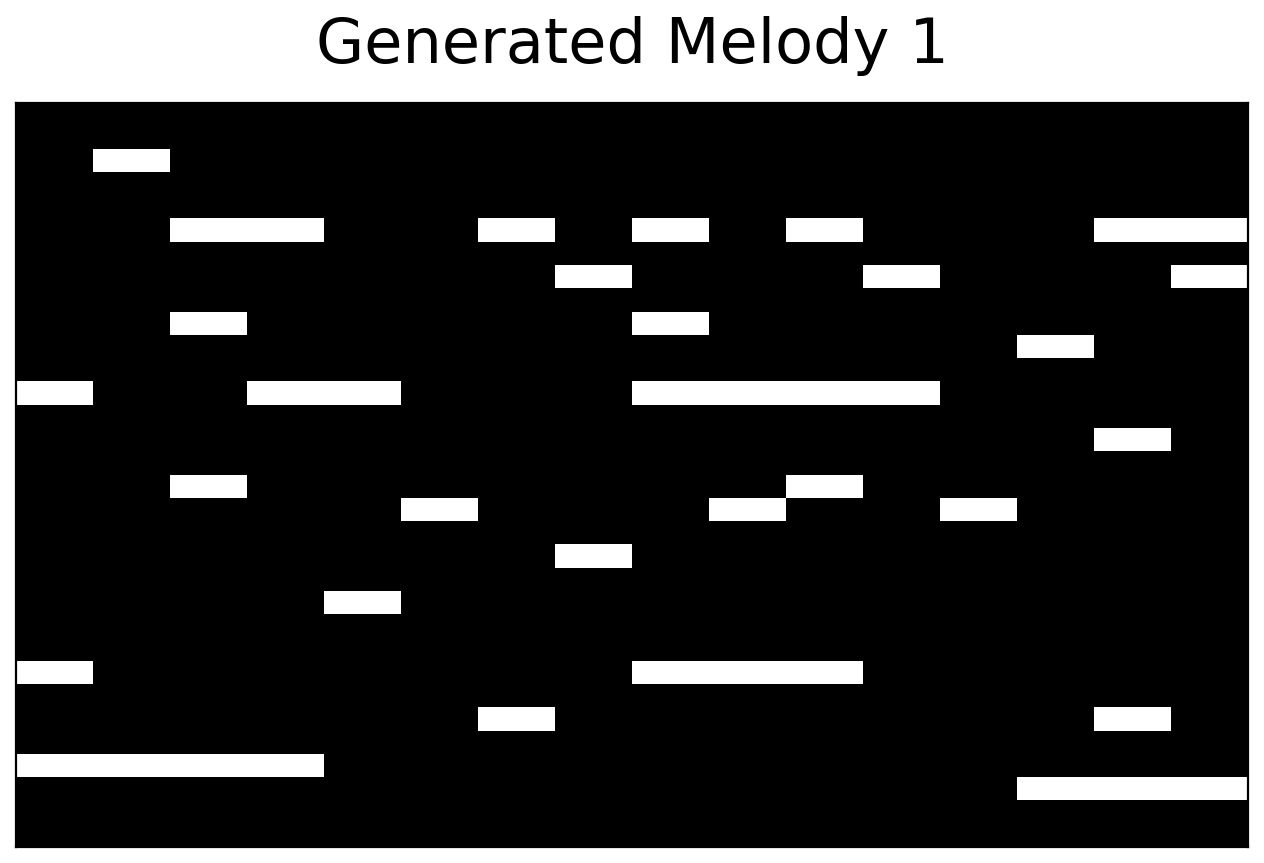
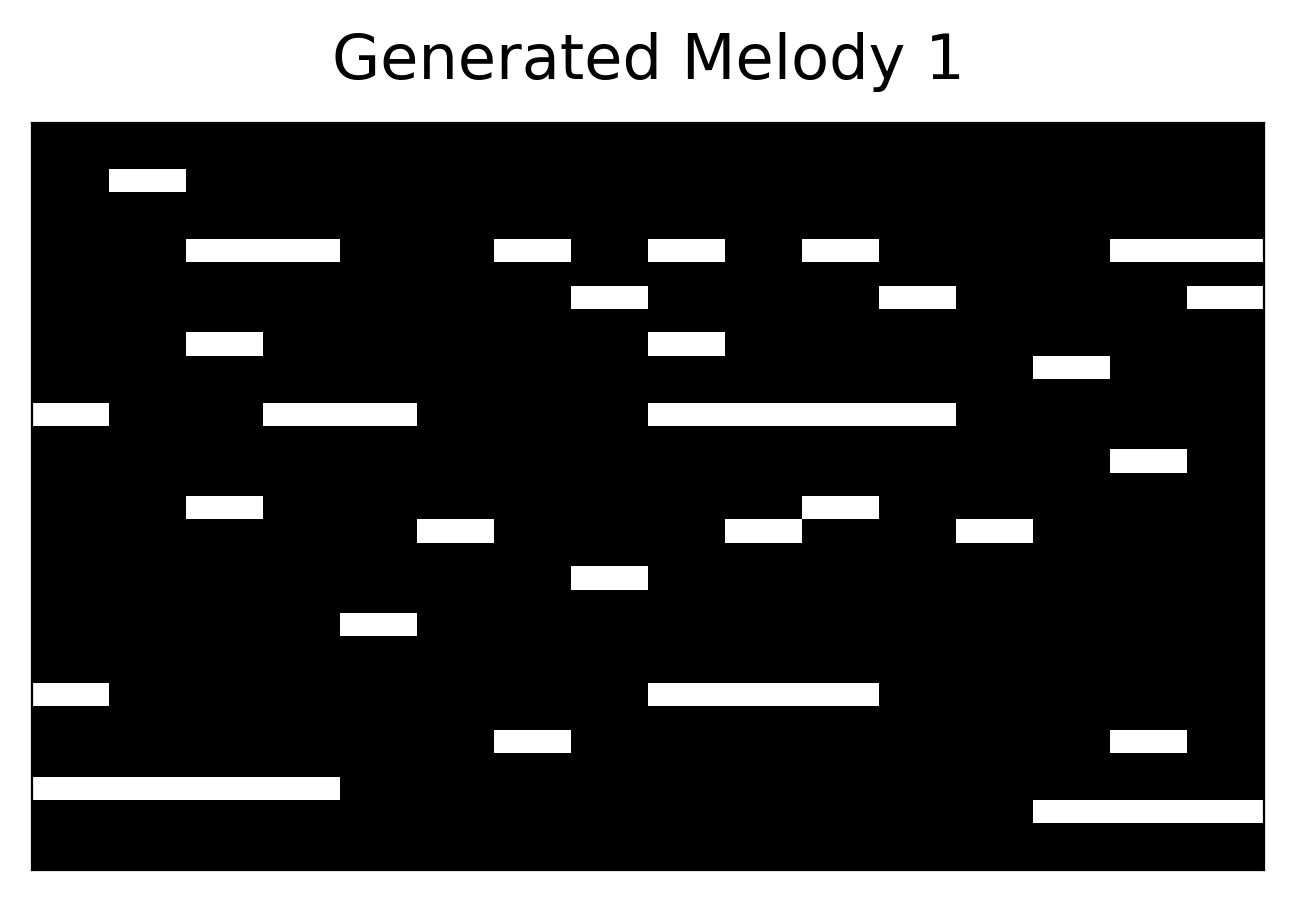
Tweak melody preview layout

diff --git a/scripts/render_samples.py b/scripts/render_samples.py
@@ -54,14 +54,15 @@ def render_png(pm: pretty_midi.PrettyMIDI, path: str, title: str) -> None:
 
     fig, ax = plt.subplots(figsize=(8, 5.5))
     ax.imshow(crop, interpolation="none", cmap="gray", origin="lower", aspect="auto")
-    ax.set_title(title, fontsize=28, pad=18)
+    # suptitle centres on the whole figure width, not just the axes.
+    fig.suptitle(title, fontsize=28)
     for spine in ax.spines.values():
         spine.set_edgecolor("black")
         spine.set_linewidth(1)
     ax.set_xticks([])
     ax.set_yticks([])
     fig.tight_layout()
-    fig.savefig(path, dpi=160, bbox_inches="tight")
+    fig.savefig(path, dpi=160, bbox_inches="tight", pad_inches=0.2)
     plt.close(fig)
 
 
